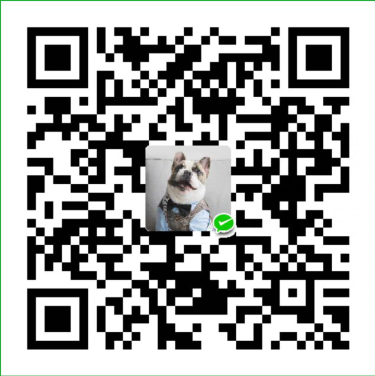
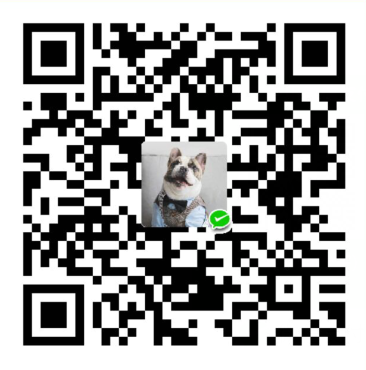
Site updated: 2020-03-10 15:53:33

diff --git a/css/main.css b/css/main.css
@@ -1305,7 +1305,7 @@ pre .javascript .function {
 }
 .links-of-author a::before,
 .links-of-author span.exturl::before {
-  background: #fffa0b;
+  background: #57e74d;
   border-radius: 50%;
   content: ' ';
   display: inline-block;
